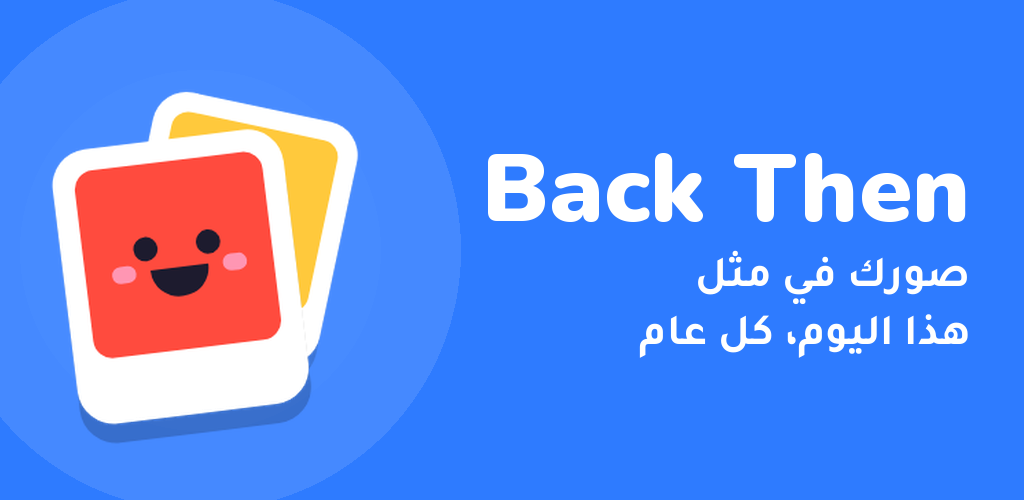
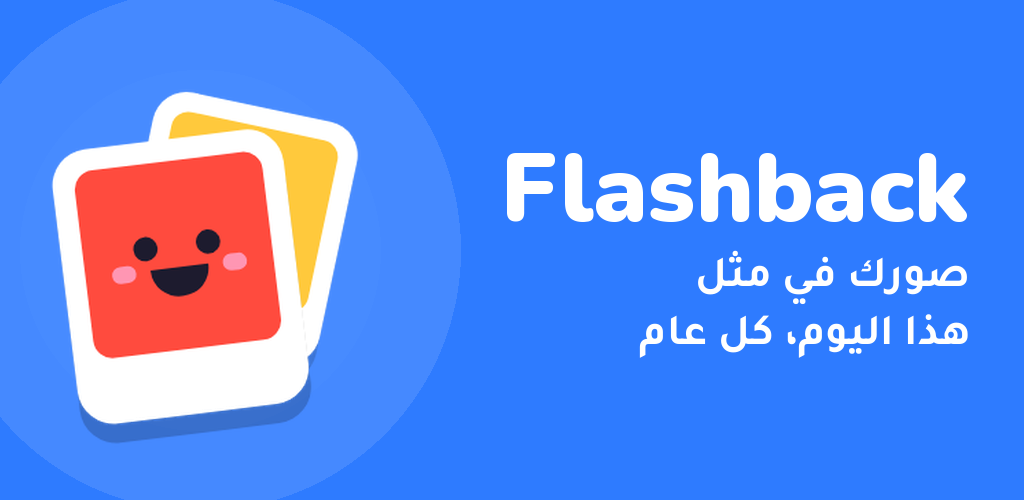
1.15: rename the app to Flashback
Same icon and colors. The new name shows under the icon, on the welcome
screen, in the widget, in the photo and location prompts, and on Google
Play in all four languages. Android saves albums to Pictures/Flashback.
Package name, bundle ID and Xcode target names stay as they are.

Changed region(s): [[0.4688, 0.3, 0.9688, 0.45]]

diff --git a/android/app/src/main/java/com/njarrar/backthen/data/DeviceLibrary.kt b/android/app/src/main/java/com/njarrar/backthen/data/DeviceLibrary.kt
@@ -133,13 +133,13 @@ class DeviceLibrary(private val context: Context) {
     }
 
     /**
-     * Copies photos into Pictures/Back Then/<album>, so the album shows up in the gallery
+     * Copies photos into Pictures/Flashback/<album>, so the album shows up in the gallery
      * and Google Photos. Each file keeps its own type (JPEG, HEIC, PNG), and a photo already
      * in that folder is skipped, so saving again doesn't make copies. See [CAN_SAVE_TO_GALLERY].
      */
     suspend fun saveAlbum(name: String, photos: List<Photo>): Boolean = withContext(Dispatchers.IO) {
         if (!CAN_SAVE_TO_GALLERY) return@withContext false
-        val folder = "${Environment.DIRECTORY_PICTURES}/Back Then/${name.replace('/', '-')}"
+        val folder = "${Environment.DIRECTORY_PICTURES}/Flashback/${name.replace('/', '-')}"
         val resolver = context.contentResolver
         val saveTo = MediaStore.Images.Media.getContentUri(MediaStore.VOLUME_EXTERNAL_PRIMARY)
         val there = HashSet<String>()

diff --git a/android/app/src/main/java/com/njarrar/backthen/AppViewModel.kt b/android/app/src/main/java/com/njarrar/backthen/AppViewModel.kt
@@ -271,7 +271,7 @@ class AppViewModel(app: Application) : AndroidViewModel(app) {
 
     fun deleteAlbum(id: String) = update { s -> s.copy(albums = s.albums.filterNot { it.id == id }) }
 
-    /** Copies photos into Pictures/Back Then/<name>. */
+    /** Copies photos into Pictures/Flashback/<name>. */
     fun saveToGallery(name: String, photos: List<Photo>) = viewModelScope.launch {
         val ok = runCatching { library.saveAlbum(name, photos) }.getOrDefault(false)
         say(L.s(if (ok) "toast_saved_gallery" else "toast_save_failed"))

diff --git a/.github/play/graphics.py b/.github/play/graphics.py
@@ -70,7 +70,7 @@ def feature(out, lang):
     lines = wrap(draw, TAGLINES[lang], tag_f, width, kw)
     block = 110 + 58 * len(lines)
     y = (H - block) // 2
-    title = "Back Then"
+    title = "Flashback"
     tw = draw.textlength(title, font=title_f)
     draw.text((x0 + width - tw if rtl else x0, y - 14), title, font=title_f, fill=WHITE)
     y += 120

diff --git a/README.md b/README.md
@@ -1,8 +1,8 @@
-# Back Then
+# Flashback
 
 **See what this day looked like, every year.**
 
-Back Then is an iPhone and Android app that opens on today's date and shows the
+Flashback is an iPhone and Android app that opens on today's date and shows the
 photos you took on this same day in past years, one year at a time. Pick any other
 day from a calendar, keep the best shots in Favorites, and gather photos into albums
 you can share.
@@ -106,7 +106,7 @@ loads the samples from a folder in the app instead.)
 - **Favorites.** Every photo you've hearted, from any day, with its year on each tile.
 - **Albums.** On Today, tap Select (or long press a photo), pick photos, then tap Album. Share an album
   through any app, or save it as a real album in Photos (iPhone) or under
-  Pictures/Back Then (Android). Rename or delete it from the album's menu.
+  Pictures/Flashback (Android). Rename or delete it from the album's menu.
 - **Home screen widget.** A photo from this day in a past year, with its year and
   how long ago, in small and medium sizes. It picks another photo every hour and
   opens Today when tapped.
@@ -115,6 +115,15 @@ loads the samples from a folder in the app instead.)
 - **Looks native on each phone.** The system tab bar and sheets on iPhone, with text
   that grows with the system text size; a large top app bar and navigation bar on
   Android. Light and dark mode.
+
+## What's new in 1.15
+
+- **New name: Flashback.** The app used to be called Back Then. The icon, colors and
+  everything else stay the same. The new name shows under the icon, on the welcome
+  screen, in the widget, in the photo and location prompts, and on Google Play, in all
+  four languages.
+- On Android, albums you save now go to Pictures/Flashback. Albums saved before stay in
+  Pictures/Back Then; saving one again puts the new copy in Pictures/Flashback.
 
 ## What's new in 1.14
 
@@ -252,7 +261,7 @@ Google Photos sign-in.
 
 ## What's new in 1.7
 
-- **Home screen widget, on both phones.** Add "Back Then" from the widget picker. It
+- **Home screen widget, on both phones.** Add "Flashback" from the widget picker. It
   shows a photo from this day in a past year, with the year and how long ago, and
   picks another photo from the day every hour. Tap it to open Today. With no photos
   that day, or before you allow photo access, it shows the date and a short note.
@@ -392,7 +401,7 @@ apps.
   of photos, and arrows step to the next or previous year.
 - **Share sheet.** Sharing a year, a selection or an album now opens a sheet with a
   preview first. From there, send the photos through any app or save copies to an
-  album in Photos (iPhone) or under Pictures/Back Then (Android).
+  album in Photos (iPhone) or under Pictures/Flashback (Android).
 - **Reminder time** shows in the phone's 12 or 24 hour style.
 - **Fixes.** Settings are saved in order, so a fast run of taps can't leave an older
   state on disk. A failed album save on Android no longer leaves empty files in the

diff --git a/play-store/privacy-policy.md b/play-store/privacy-policy.md
@@ -1,14 +1,14 @@
-# Back Then privacy policy
+# Flashback privacy policy
 
 **Effective date:** October 18, 2026
 
-This policy covers the Back Then app for Android and iPhone ("the app"). Back Then is
+This policy covers the Flashback app for Android and iPhone ("the app"). Flashback is
 made by an independent developer ("I", "me"). It explains what the app reads, what it
 keeps, what leaves your phone, and the choices you have.
 
 ## In short
 
-- Back Then has **no account, no server, no ads, no analytics and no tracking**.
+- Flashback has **no account, no server, no ads, no analytics and no tracking**.
 - Your photos and everything you do in the app stay **on your phone**.
 - I never receive, see, store, sell or share any of your data.
 - The app does not use the internet. It reads only the photos already on your phone.
@@ -61,7 +61,7 @@ The app saves a small file in its own private storage on your phone with:
   on, and whether Places is on.
 
 When you save an album to your gallery, the app writes normal photo files to your
-phone's gallery (Android: Pictures/Back Then; iPhone: a Photos album). Those then
+phone's gallery (Android: Pictures/Flashback; iPhone: a Photos album). Those then
 belong to your gallery like any other photo.
 
 **Backups.** Your phone may include the app's saved file in its own backup (Android's
@@ -73,7 +73,7 @@ terms. I have no access to them.
 
 When you share a photo, a year or an album, the app opens your phone's share screen
 and hands the photos to the app you pick, such as Messages or WhatsApp. From then on,
-that app's privacy policy applies. Back Then does not send anything by itself and does
+that app's privacy policy applies. Flashback does not send anything by itself and does
 not see what happens after you share.
 
 ## 4. What I collect

diff --git a/play-store/README.md b/play-store/README.md
@@ -1,4 +1,4 @@
-# Publishing Back Then on Google Play
+# Publishing Flashback on Google Play
 
 Everything the Play Console asks for is in this folder or made by the
 [Play Store workflow](../.github/workflows/play.yml). Work through the steps in order.
@@ -69,7 +69,7 @@ won't take it.
 
 ## 5. Create the app
 
-**Home > Create app:** name `Back Then`, default language English (United States),
+**Home > Create app:** name `Flashback`, default language English (United States),
 App, Free. Tick the declarations.
 
 ## 6. App content (Policy > App content)
@@ -98,7 +98,7 @@ App, Free. Tick the declarations.
 - **Photo and video permissions** (Play asks because the app uses
   `READ_MEDIA_IMAGES`). Pick "core functionality" and paste:
 
-  > Back Then's core feature is showing the photos a user took on today's date in
+  > Flashback's core feature is showing the photos a user took on today's date in
   > every past year. To find them, the app must read the capture date of every photo
   > in the library each day, including new photos, so a one-time photo picker can't
   > do the job. The app shows the photos on screen only and never uploads them.
@@ -150,7 +150,7 @@ do this once. Play needs the first bundle uploaded by hand, which you have done.
      file downloads. Keep it safe: it can change your app on Play.
    - Copy the account's email (like `github-play@your-project.iam.gserviceaccount.com`).
 2. **Let it into Play Console.** **Users and permissions > Invite new users.** Paste the
-   email. Under **App permissions**, add Back Then and tick:
+   email. Under **App permissions**, add Flashback and tick:
    - Release apps to testing tracks
    - Manage testing tracks and edit tester lists
    - Manage store presence
